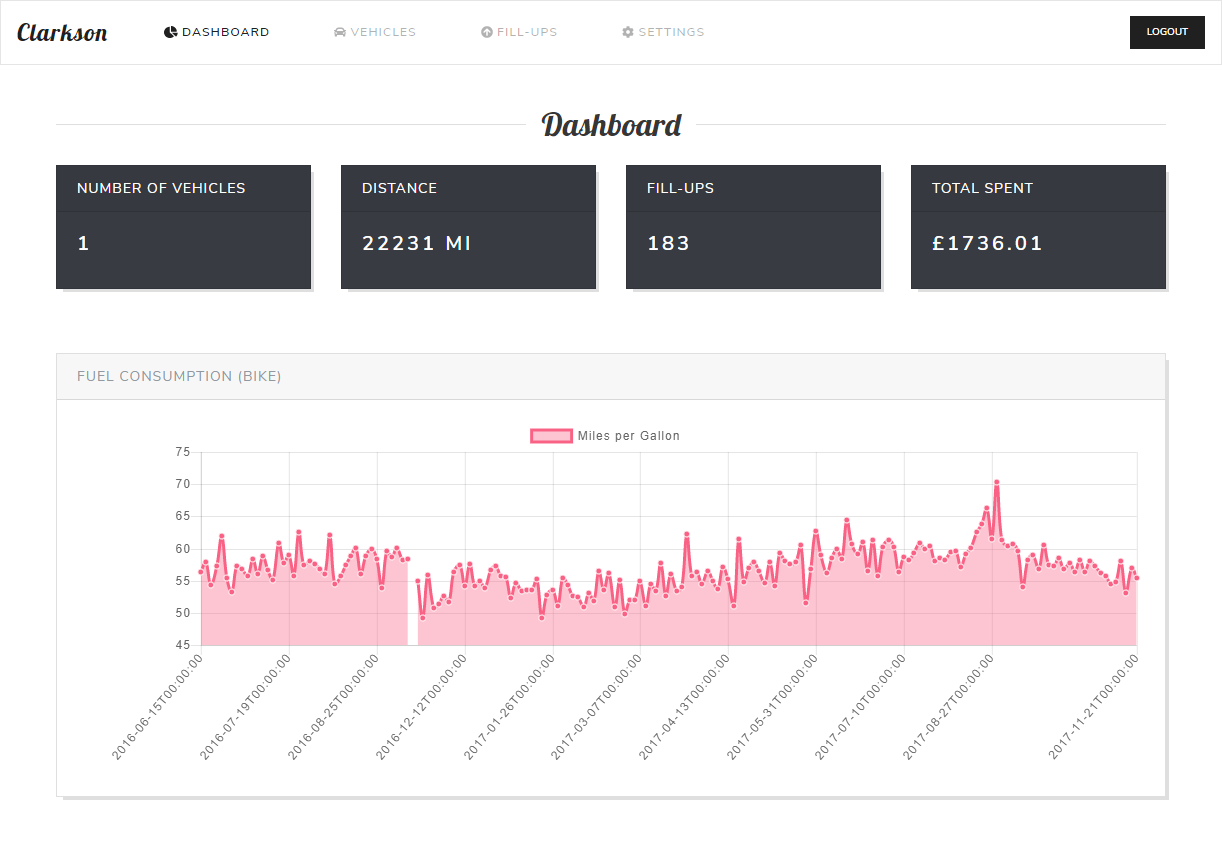
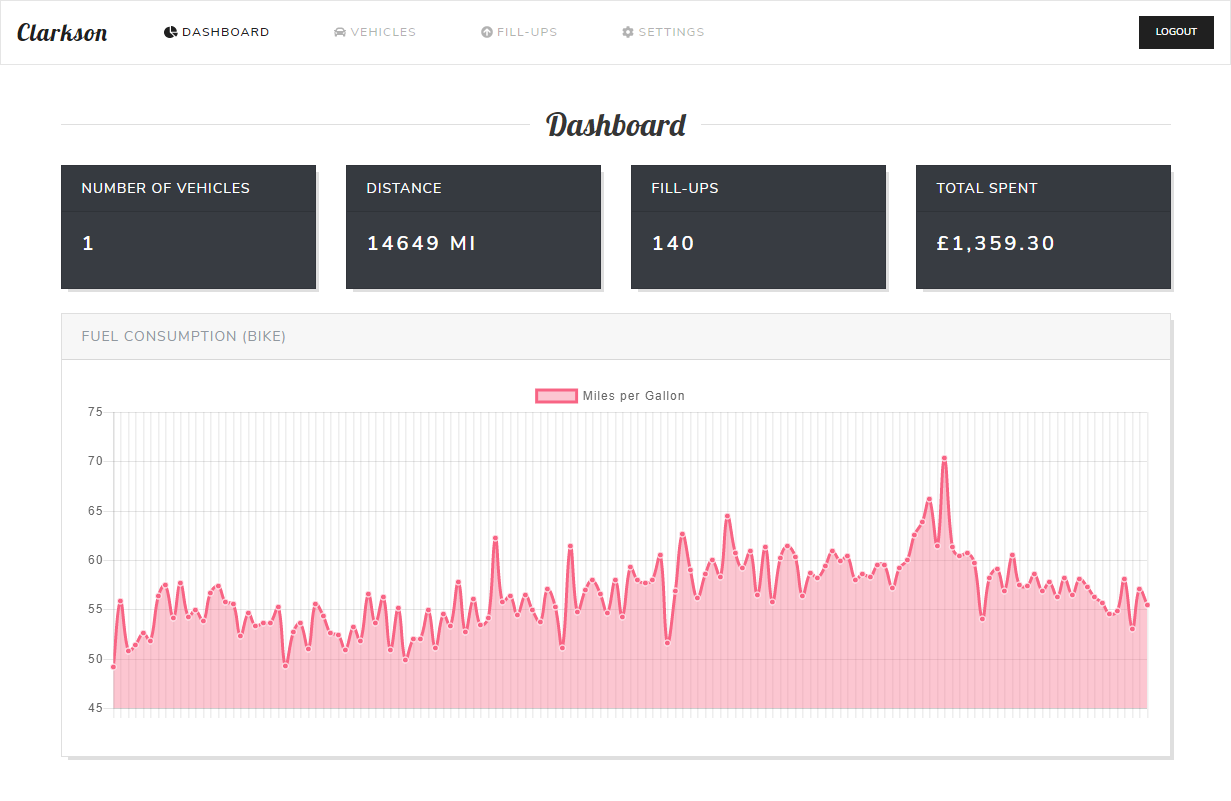
Improved display of costings in dashboard

diff --git a/src/app/services/conversion/consumption-converter.ts b/src/app/services/conversion/consumption-converter.ts
@@ -17,11 +17,11 @@ export class ConsumptionConverter {
         const distanceUnitConversion = DistanceUnitConversionFactory.get(distanceUnit, tripDistance);
 
         if ('mpg' === consumptionUnit) {
-            return Math.round((distanceUnitConversion.toMiles() / fuelUnitConversion.toGallons()) * 100) / 100;
+            return distanceUnitConversion.toMiles() / fuelUnitConversion.toGallons();
         }
 
         if ('l/100km' === consumptionUnit) {
-            return Math.round(((fuelUnitConversion.toLitres() / distanceUnitConversion.toKilometers()) * 100) * 100) / 100;
+            return (fuelUnitConversion.toLitres() / distanceUnitConversion.toKilometers()) * 100;
         }
 
         return 0;

diff --git a/src/app/components/fuel-list/fuel-list.component.html b/src/app/components/fuel-list/fuel-list.component.html
@@ -27,7 +27,7 @@
                 <div class="card-body p-2">
 
                     <div class="float-left text-center consumption-value">
-                        <span *ngIf="!fuelLog.consumption">--</span><span *ngIf="fuelLog?.consumption &gt; 0">{{fuelLog.consumption}}</span><br/>{{userPreferences.fuelConsumptionUnit.unit}}
+                        <span *ngIf="!fuelLog.consumption">--</span><span *ngIf="fuelLog?.consumption &gt; 0">{{fuelLog.consumption | number:'1.2-2'}}</span><br/>{{userPreferences.fuelConsumptionUnit.unit}}
                     </div>
 
                     <div class="float-left fuel-log-summary">

diff --git a/src/app/components/dashboard/dashboard.component.html b/src/app/components/dashboard/dashboard.component.html
@@ -53,7 +53,7 @@
             <div class="card text-white bg-dark mb-3">
                 <div class="card-header">Total Spent</div>
                 <div class="card-body">
-                    <h4 class="card-title"><span [innerHTML]="userPreferences.currencyUnit.symbol"></span>{{totalSpent}}</h4>
+                    <h4 class="card-title"><span [innerHTML]="userPreferences.currencyUnit.symbol"></span>{{totalSpent | number:'1.2-2'}}</h4>
                 </div>
             </div>
         </div>
